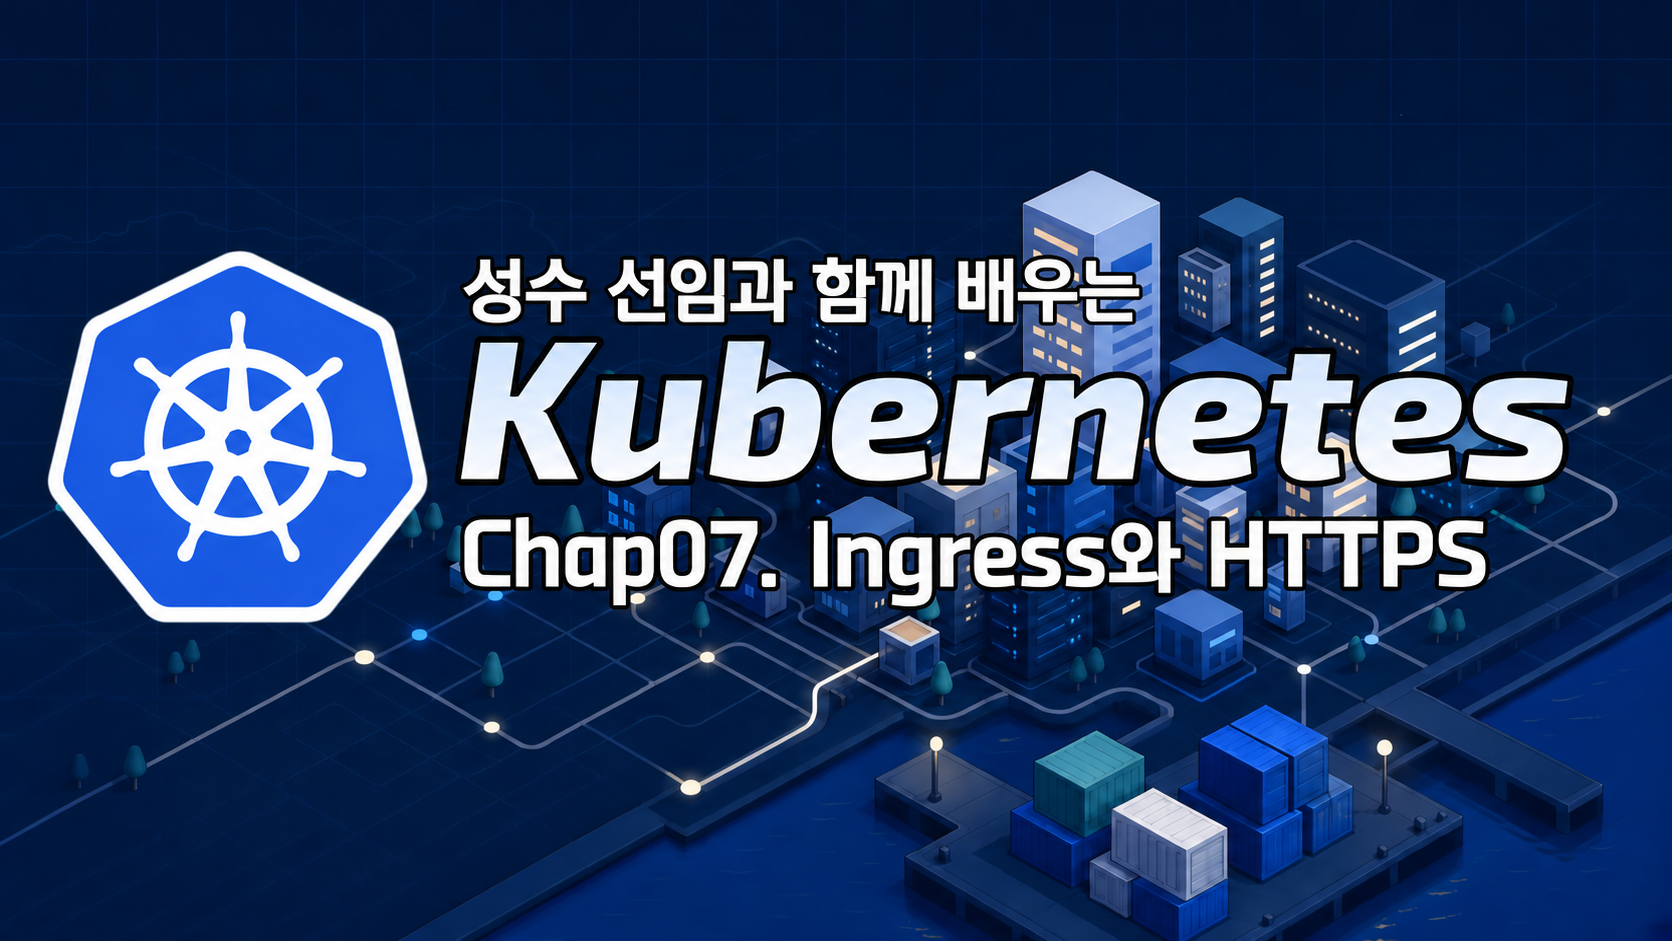
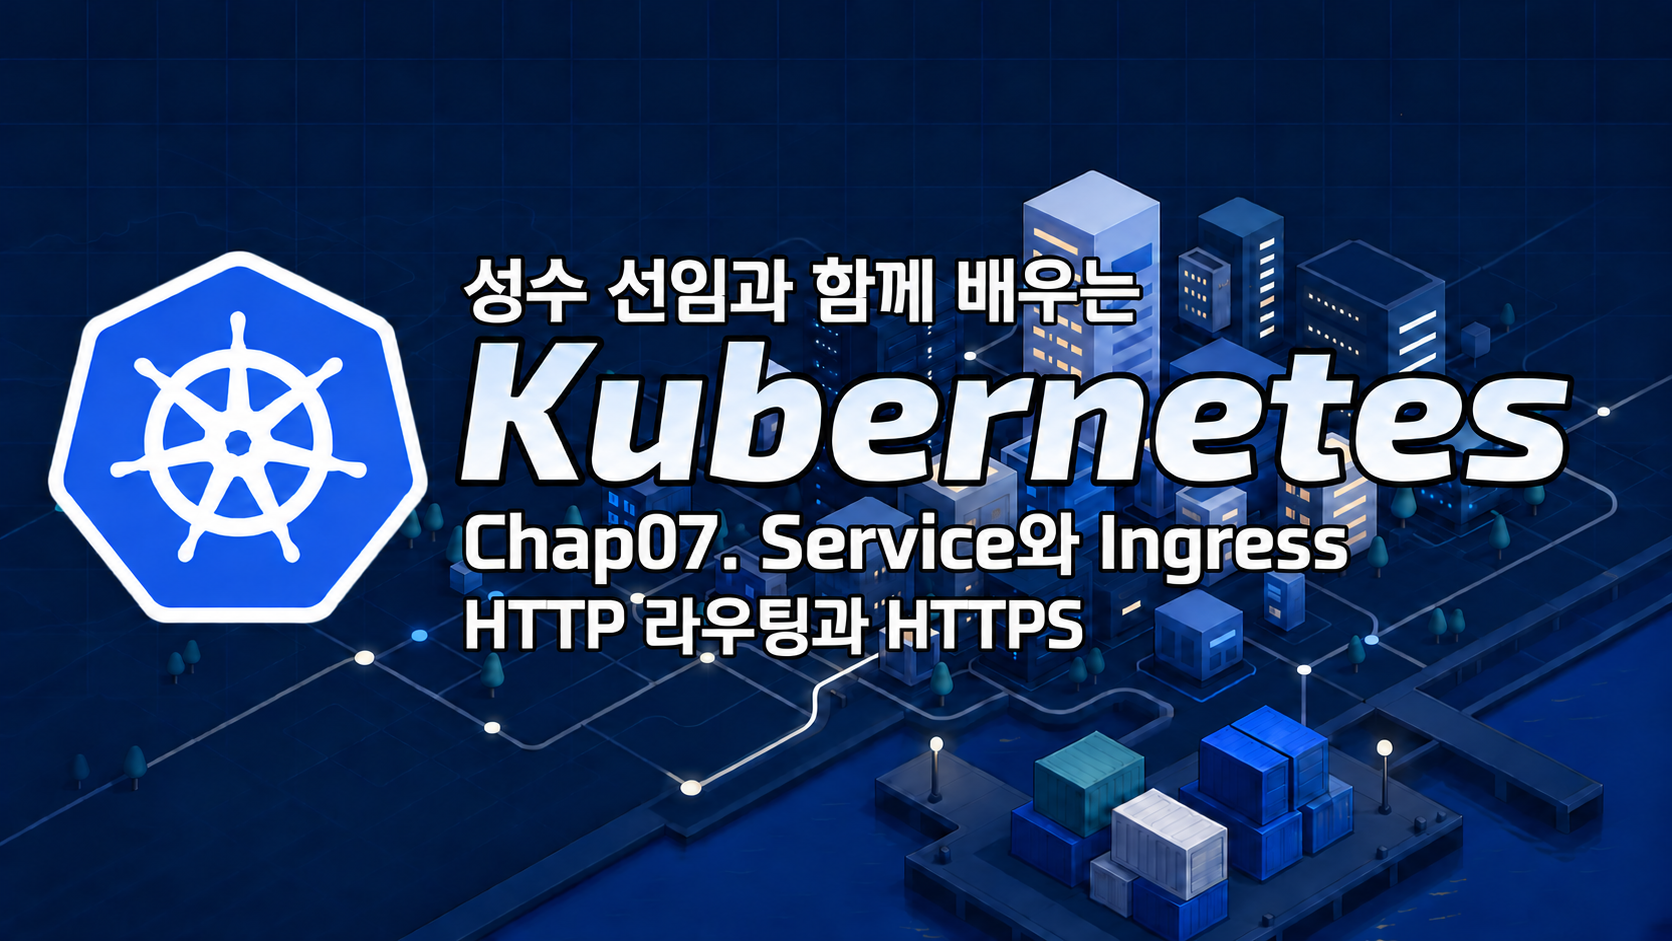
[feature] Tech Blog 7장 제목 수정

diff --git a/images/thumbnail/README.md b/images/thumbnail/README.md
@@ -1,6 +1,6 @@
 # 장별 썸네일
 
-2026-10-12 기준 검토 및 생성 결과입니다.
+2026-10-19 기준 검토 및 생성 결과입니다.
 
 | 장 | 사용 파일 | 썸네일 제목 | 검토 결과 |
 |---|---|---|---|
@@ -8,6 +8,7 @@
 | 4 | `week04-thumbnail-v2.png` | Chap04. Pod의 실행과 상태 확인 | 이전 제목의 자동 복구 내용을 제거한 수정본 |
 | 5 | `week05-thumbnail.png` | Chap05. Pod의 장애와 자동 복구 | 본문의 부제는 생략하고 핵심 제목을 사용한 신규 이미지 |
 | 6 | `week06-thumbnail.png` | Chap06. Service와 클러스터 통신 | 본문 핵심 제목과 일치, 글자 잘림과 겹침 없음 |
+| 7 | `week07-thumbnail.png` | Chap07. Service와 Ingress: HTTP 라우팅과 HTTPS | 본문 제목과 일치, 글자 잘림과 겹침 없음 |
 
 기존 `week04-thumbnail.png`는 이전 버전입니다. 현재 4장에는 v2 파일을 사용합니다.
 

diff --git a/images/thumbnail/week07-thumbnail.prompt.md b/images/thumbnail/week07-thumbnail.prompt.md
@@ -1,0 +1,7 @@
+# Chapter 7 thumbnail
+
+Generated with the built-in imagegen tool, editing the previous week07-thumbnail.png. Output: week07-thumbnail.png.
+
+## Final prompt
+
+Edit this existing Kubernetes series thumbnail, preserving its dark blue city background, Kubernetes logo, Korean top line "성수 선임과 함께 배우는", large "Kubernetes" heading and wide aspect ratio. Replace the chapter subtitle only. Use two clean left-aligned lines below Kubernetes, starting at the existing subtitle left edge, with white bold letters and black outline. First line exact text: "Chap07. Service와 Ingress". Second line exact text: "HTTP 라우팅과 HTTPS". Make the first line prominent and second line slightly smaller. Keep text within the right margin, do not overlap the logo or main heading. No other changes or new elements.

diff --git a/articles/07-ingress-and-https.publish.md b/articles/07-ingress-and-https.publish.md
@@ -3,7 +3,7 @@
   GitHub Flavored Markdown; figures use GitHub raw URLs.
 -->
 
-# Chap07. Ingress와 HTTPS: 외부 요청을 Service로 연결하기
+# Chap07. Service와 Ingress: HTTP 라우팅과 HTTPS
 
 > 16장 연재의 일곱째 글입니다. 6장에서 비교한 Service 타입을 바탕으로, Ingress가 외부 HTTP와 HTTPS 요청을 Service에 연결하는 방법을 살펴봅니다.
 

diff --git a/articles/07-ingress-and-https.publish.en.md b/articles/07-ingress-and-https.publish.en.md
@@ -3,7 +3,7 @@
   GitHub Flavored Markdown; figures use GitHub raw URLs.
 -->
 
-# Chap07. Ingress and HTTPS: Connecting External Requests to Services
+# Chap07. Services and Ingress: HTTP Routing and HTTPS
 
 > This is the seventh chapter in a 16-part series. Building on the Service types compared in Chapter 6, we explore how Ingress connects external HTTP and HTTPS requests to Services.
 

diff --git a/articles/07-ingress-and-https.draft.md b/articles/07-ingress-and-https.draft.md
@@ -1,4 +1,4 @@
-# Chap07. Ingress와 HTTPS: 외부 요청을 Service로 연결하기
+# Chap07. Service와 Ingress: HTTP 라우팅과 HTTPS
 
 > 16장 연재의 일곱째 글입니다. 6장에서 비교한 Service 타입을 바탕으로, Ingress가 외부 HTTP와 HTTPS 요청을 Service에 연결하는 방법을 살펴봅니다.
 
